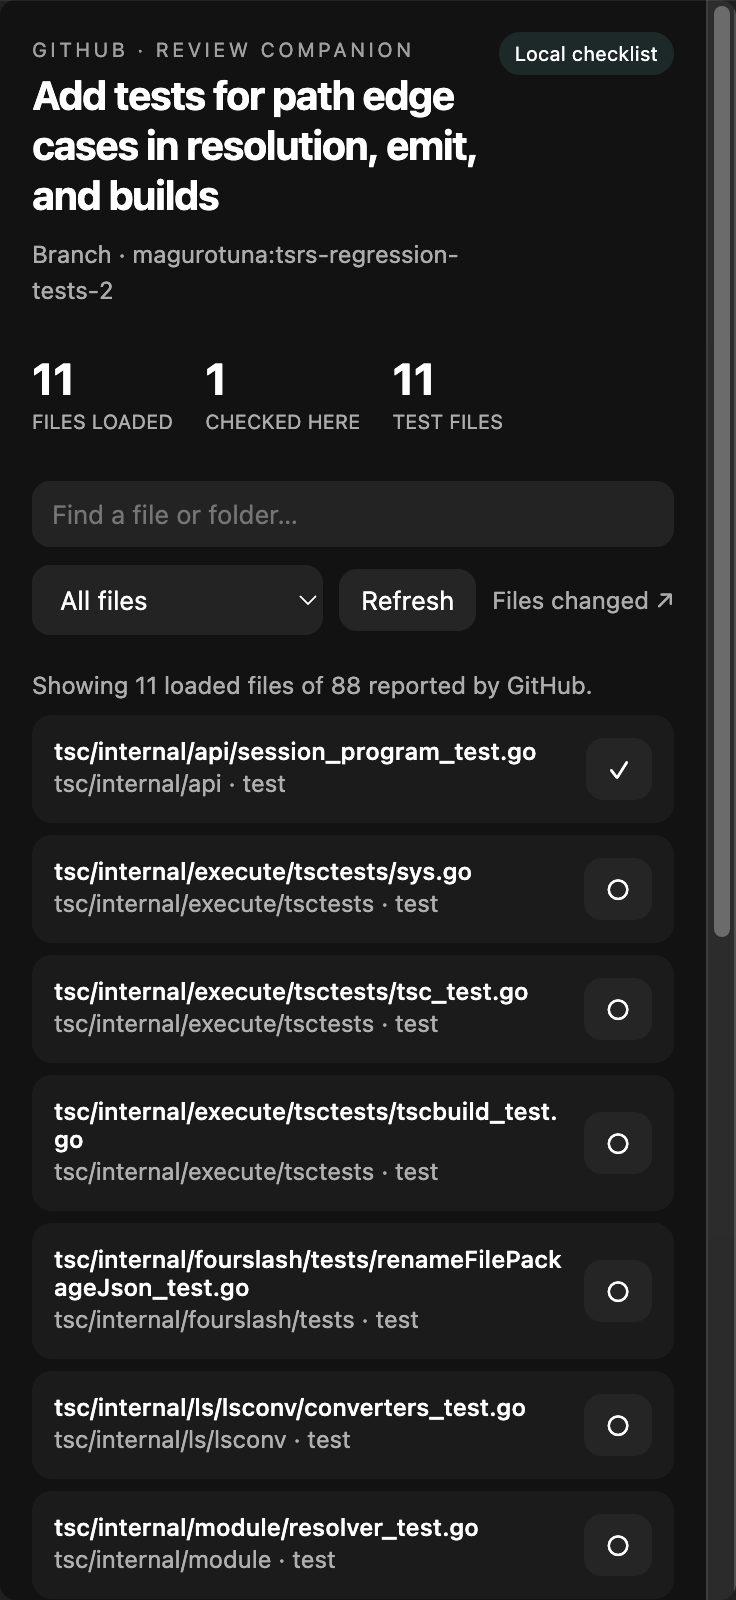
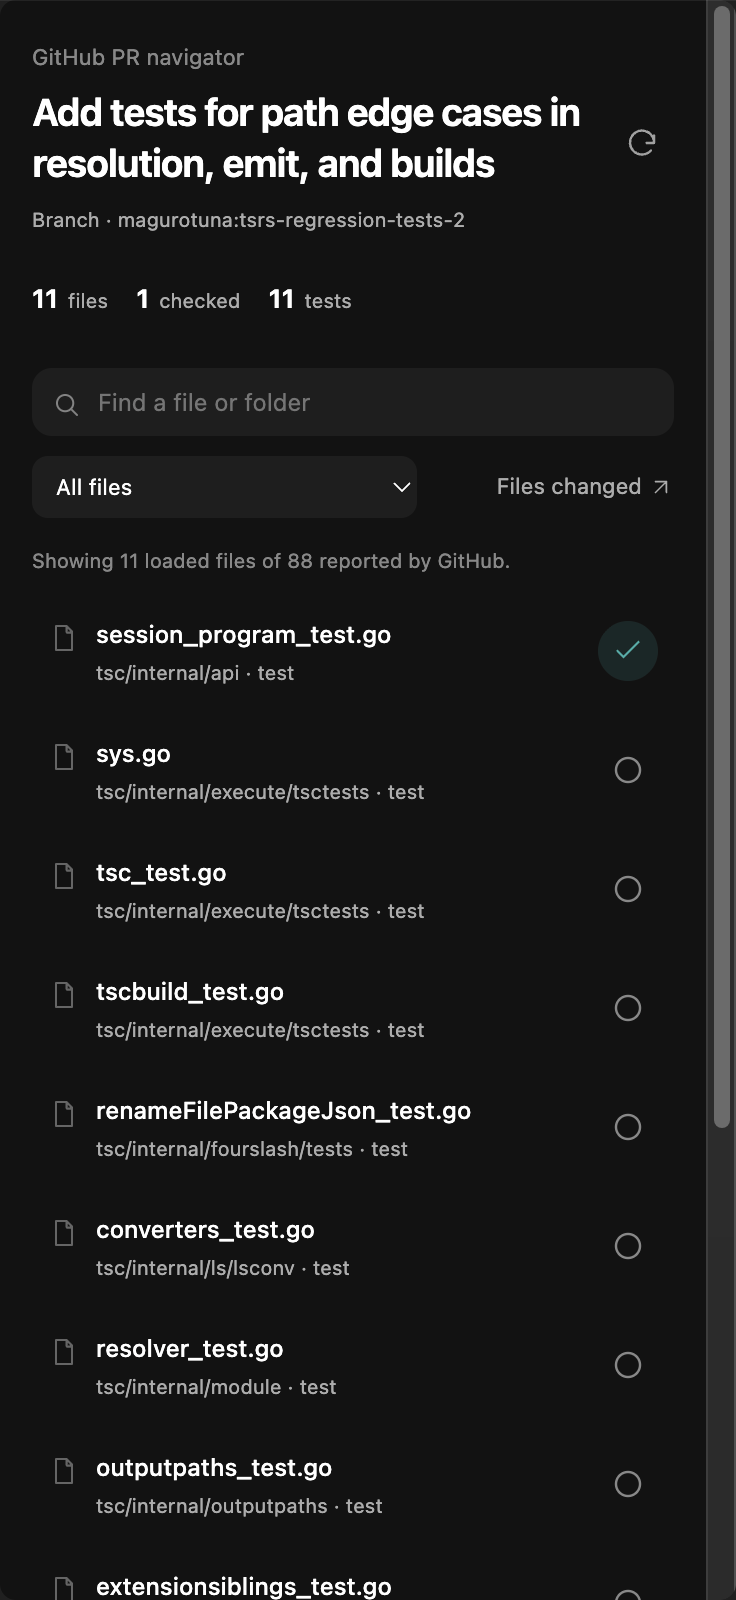
Refine PR and page explorer panels and publish refreshed galleries

diff --git a/docs/marketplace-hooks/src/navigator-shared.css b/docs/marketplace-hooks/src/navigator-shared.css
@@ -1,0 +1,1 @@
+.panel-navigator{padding:20px 16px;max-width:760px;font-family:-apple-system,BlinkMacSystemFont,"Segoe UI",sans-serif}.panel-navigator header{margin-bottom:18px;align-items:center}.panel-navigator .eyebrow{font-size:11px;letter-spacing:0;text-transform:none;opacity:.5}.panel-navigator h1{font-size:19px;font-weight:650;line-height:1.35;letter-spacing:-.4px;margin:8px 0}.panel-navigator .muted{font-size:11px}.panel-navigator #branch{overflow-wrap:anywhere;font-size:10px}.panel-navigator svg{width:18px;height:18px;fill:none;stroke:currentColor;stroke-width:1.6;stroke-linecap:round;stroke-linejoin:round;flex-shrink:0}.panel-navigator .icon-button{width:32px;height:32px;flex-shrink:0;padding:7px;display:grid;place-items:center;background:transparent;border-radius:50%;opacity:.6}.panel-navigator .icon-button:hover{background:color-mix(in srgb,CanvasText 7%,Canvas);opacity:1}.panel-navigator .stats{gap:14px;margin:14px 0 18px}.panel-navigator .stats>div{display:flex;gap:5px;align-items:baseline}.panel-navigator .stats strong{font-size:13px;font-weight:650}.panel-navigator .stats small{font-size:10px;text-transform:none}.panel-navigator .toolbar{padding:8px 0 12px;background:Canvas;z-index:1}.search-field{position:relative}.search-field>svg{position:absolute;left:10px;top:11px;width:15px;height:15px;opacity:.45;pointer-events:none}.panel-navigator input[type=search]{padding:10px 12px 10px 33px;font-size:12px;background:color-mix(in srgb,CanvasText 5%,Canvas);border-radius:10px}.panel-navigator select{font-size:11px;padding:8px;background:color-mix(in srgb,CanvasText 5%,Canvas);border-radius:8px}.filter-row{display:flex;align-items:center;gap:10px;margin-top:10px}.filter-row select{width:auto;max-width:60%;flex:1}.filter-row a{margin-left:auto;font-size:10px;white-space:nowrap;display:flex;gap:3px;align-items:center}.filter-row a svg{width:13px;height:13px}.panel-navigator .list{gap:2px}.panel-navigator .item{background:transparent;padding:11px 8px;border-radius:9px;display:flex;align-items:center;gap:8px}.panel-navigator .item:hover{background:color-mix(in srgb,CanvasText 4%,Canvas);text-decoration:none}.panel-navigator .item strong{font-size:12px;font-weight:500;line-height:1.5}.panel-navigator .item small{font-size:10px;margin-top:3px;line-height:1.45}.panel-navigator .file-icon{opacity:.35;width:16px;height:16px;align-self:flex-start;margin-top:3px}.panel-navigator .check-button{background:transparent;padding:6px;width:30px;height:30px;flex-shrink:0;border-radius:50%;opacity:.5;display:grid;place-items:center}.panel-navigator .check-button[aria-pressed=true]{background:color-mix(in srgb,var(--kudium-primary) 14%,Canvas);color:var(--kudium-primary);opacity:1}.panel-navigator .check-button:hover{opacity:1}.panel-navigator .segments{display:flex;gap:3px;padding:3px;border-radius:9px;background:color-mix(in srgb,CanvasText 5%,Canvas);margin-top:10px}.panel-navigator .segments button{flex:1;background:transparent;font-size:11px;padding:7px 8px;border-radius:7px;opacity:.6;white-space:nowrap}.panel-navigator .segments button[aria-pressed=true]{background:color-mix(in srgb,CanvasText 10%,Canvas);color:inherit;opacity:1;filter:none;font-weight:550}.panel-navigator #link-filter{width:100%;margin-top:8px}.panel-navigator #notice,.panel-navigator #summary{font-size:10px;margin:2px 0 9px;opacity:.5}.panel-navigator .source-arrow{opacity:.35;width:14px;height:14px;margin-left:auto}.panel-navigator details{margin-top:12px}.panel-navigator summary{font-size:11px;cursor:pointer;opacity:.65;padding:8px 0}.panel-navigator details p{font-size:11px;line-height:1.65}.panel-navigator .local-note{font-size:10px;opacity:.45;margin:18px 0 0}.panel-navigator #description{white-space:pre-wrap}.panel-navigator #threads .item{display:block;font-size:11px;line-height:1.6}@media(max-width:340px){.panel-navigator{padding:16px 12px}.panel-navigator h1{font-size:18px}.panel-navigator .stats{gap:10px}}

diff --git a/docs/marketplace-hooks/src/page-explorer.panel.js b/docs/marketplace-hooks/src/page-explorer.panel.js
@@ -1,7 +1,7 @@
 let explorerData, mode='outline';const el=id=>document.getElementById(id);
 function render(){if(!explorerData)return;const query=el('search').value.toLowerCase(),filter=el('link-filter').value;el('results').replaceChildren();
   const entries=mode==='outline'?explorerData.headings.filter(item=>item.text.toLowerCase().includes(query)):explorerData.links.filter(item=>(item.label+' '+item.domain+' '+item.url).toLowerCase().includes(query)&&(filter!=='external'||item.external)&&(filter!=='internal'||!item.external));
-  for(const item of entries){const row=document.createElement(mode==='outline'?'button':'a');row.className='item';const title=document.createElement('strong');title.textContent=mode==='outline'?item.text:item.label;row.append(title);if(mode==='outline'){row.style.paddingLeft=(11+Math.min(3,item.level-1)*12)+'px';row.onclick=async()=>{try{await kudiumHookPanel.invoke('explorer-jump',{index:item.index});}catch(error){el('error').textContent=error.message;}};}else{row.href=item.url;const detail=document.createElement('small');detail.textContent=item.domain+(item.external?' · external source':' · this website');row.append(detail);}el('results').append(row);}
+  for(const item of entries){const row=document.createElement(mode==='outline'?'button':'a');row.className='item';const title=document.createElement('strong');title.textContent=mode==='outline'?item.text:item.label;const content=document.createElement('div');content.className='grow';content.append(title);row.append(content);if(mode==='outline'){row.style.paddingLeft=(11+Math.min(3,item.level-1)*12)+'px';row.onclick=async()=>{try{await kudiumHookPanel.invoke('explorer-jump',{index:item.index});}catch(error){el('error').textContent=error.message;}};}else{row.href=item.url;const detail=document.createElement('small');detail.textContent=item.domain+(item.external?' · external source':' · this website');content.append(detail);const arrow=document.createElementNS('http://www.w3.org/2000/svg','svg');arrow.setAttribute('viewBox','0 0 24 24');arrow.classList.add('source-arrow');arrow.setAttribute('aria-hidden','true');arrow.innerHTML='<path d="M7 17 17 7M7 7h10v10"/>';row.append(arrow);}el('results').append(row);}
   el('summary').textContent=entries.length+' '+(mode==='outline'?'sections':'links')+' shown';if(!entries.length){const empty=document.createElement('p');empty.className='empty';empty.textContent='No '+(mode==='outline'?'headings':'links')+' match. Try another search or Refresh.';el('results').append(empty);}}
 for(const [id,next] of [['outline-tab','outline'],['links-tab','links']])el(id).onclick=()=>{mode=next;el('link-filter').hidden=mode==='outline';for(const [button,value] of [['outline-tab','outline'],['links-tab','links']]){el(button).classList.toggle('primary',mode===value);el(button).setAttribute('aria-pressed',String(mode===value));}render();};
 el('search').oninput=render;el('link-filter').onchange=render;el('refresh').onclick=async()=>{el('refresh').disabled=true;try{await kudiumHookPanel.invoke('explorer-refresh');el('error').textContent='';}catch(error){el('error').textContent=error.message;}finally{el('refresh').disabled=false;}};

diff --git a/docs/marketplace-hooks/src/pr-navigator.panel.html b/docs/marketplace-hooks/src/pr-navigator.panel.html
@@ -1,6 +1,6 @@
-<main><header><div><span class="eyebrow">GitHub · review companion</span><h1 id="title">PR review navigator</h1><p id="branch" class="muted"></p></div><span class="pill">Local checklist</span></header>
-<div class="stats"><div><strong id="loaded">0</strong><small>FILES LOADED</small></div><div><strong id="checked">0</strong><small>CHECKED HERE</small></div><div><strong id="tests">0</strong><small>TEST FILES</small></div></div>
-<div class="toolbar"><input id="search" type="search" placeholder="Find a file or folder…" aria-label="Find a file or folder"><div class="row" style="margin-top:9px"><select id="filter" aria-label="Filter files" class="grow"><option value="all">All files</option><option value="todo">Not checked here</option><option value="test">Tests and specs</option></select><button id="refresh">Refresh</button><a id="files-link" class="muted">Files changed ↗</a></div></div>
+<main class="panel-navigator"><header><div><span class="eyebrow">GitHub PR navigator</span><h1 id="title">PR review navigator</h1><p id="branch" class="muted"></p></div><button id="refresh" class="icon-button" aria-label="Refresh files" title="Refresh files"><svg viewBox="0 0 24 24"><path d="M20 7v5h-5M20 12a8 8 0 1 0-2 5"/></svg></button></header>
+<div class="stats"><div><strong id="loaded">0</strong><small>files</small></div><div><strong id="checked">0</strong><small>checked</small></div><div><strong id="tests">0</strong><small>tests</small></div></div>
+<div class="toolbar"><div class="search-field"><svg viewBox="0 0 24 24"><circle cx="10.5" cy="10.5" r="6.5"/><path d="m16 16 4 4"/></svg><input id="search" type="search" placeholder="Find a file or folder" aria-label="Find a file or folder"></div><div class="filter-row"><select id="filter" aria-label="Filter files"><option value="all">All files</option><option value="todo">Unchecked</option><option value="test">Tests &amp; specs</option></select><a id="files-link" class="muted">Files changed<svg viewBox="0 0 24 24"><path d="M7 17 17 7M7 7h10v10"/></svg></a></div></div>
 <p id="notice" class="muted"></p><div id="files" class="list"></div><p id="error" class="error" role="alert"></p>
-<details class="card"><summary>PR description</summary><p id="description" style="white-space:pre-wrap;font-size:12px"></p></details><details class="card"><summary id="threads-title">Loaded review threads</summary><div id="threads" class="list" style="margin-top:12px"></div></details>
-<p class="muted">Checked marks are your local session checklist—not GitHub’s Viewed state or a submitted review. Refresh after opening Files changed or loading more content.</p></main>
+<details><summary>PR description</summary><p id="description"></p></details><details><summary id="threads-title">Review threads</summary><div id="threads" class="list"></div></details>
+<details><summary>About this checklist</summary><p class="muted">Marks stay in this website session. They do not change GitHub’s Viewed state or submit a review. Recheck after new commits. Open Files changed and refresh to load more files.</p></details></main>

diff --git a/docs/marketplace-hooks/src/page-explorer.panel.html b/docs/marketplace-hooks/src/page-explorer.panel.html
@@ -1,2 +1,4 @@
-<main><header><div><span class="eyebrow">Page explorer</span><h1 id="title">Outline & links</h1></div><button id="refresh">Refresh</button></header><div class="stats"><div><strong id="sections">0</strong><small>SECTIONS</small></div><div><strong id="link-count">0</strong><small>UNIQUE LINKS</small></div><div><strong id="domains">0</strong><small>EXTERNAL DOMAINS</small></div></div>
-<div class="toolbar"><input type="search" id="search" placeholder="Find a section, source, or domain…" aria-label="Search sections and links"><div class="row" style="margin-top:10px"><button id="outline-tab" class="primary" aria-pressed="true">Outline</button><button id="links-tab" aria-pressed="false">Links & sources</button><select id="link-filter" aria-label="Link filter" class="grow" hidden><option value="all">All links</option><option value="external">External sources</option><option value="internal">This website</option></select></div></div><p id="summary" class="muted"></p><div id="results" class="list"></div><p id="error" class="error" role="alert"></p><p class="muted">A local map of visible headings and links. No AI guesses, network fetches, or changes to the page. Refresh after loading another section.</p></main>
+<main class="panel-navigator"><header><div><span class="eyebrow">Page explorer</span><h1 id="title">Outline &amp; links</h1></div><button id="refresh" class="icon-button" aria-label="Refresh page map" title="Refresh page map"><svg viewBox="0 0 24 24"><path d="M20 7v5h-5M20 12a8 8 0 1 0-2 5"/></svg></button></header>
+<div class="stats"><div><strong id="sections">0</strong><small>sections</small></div><div><strong id="link-count">0</strong><small>links</small></div><div><strong id="domains">0</strong><small>sources</small></div></div>
+<div class="toolbar"><div class="search-field"><svg viewBox="0 0 24 24"><circle cx="10.5" cy="10.5" r="6.5"/><path d="m16 16 4 4"/></svg><input type="search" id="search" placeholder="Find a section or source" aria-label="Search sections and links"></div><div class="segments"><button id="outline-tab" aria-pressed="true">Outline</button><button id="links-tab" aria-pressed="false">Links &amp; sources</button></div><select id="link-filter" aria-label="Link filter" hidden><option value="all">All links</option><option value="external">External sources</option><option value="internal">This website</option></select></div>
+<p id="summary" class="muted"></p><div id="results" class="list"></div><p id="error" class="error" role="alert"></p><details><summary>About this page map</summary><p class="muted">Shows visible headings and links on this page. Refresh after loading more content. Nothing is uploaded and the page stays unchanged.</p></details></main>

diff --git a/docs/marketplace-hooks/src/pr-navigator.panel.js b/docs/marketplace-hooks/src/pr-navigator.panel.js
@@ -6,8 +6,8 @@ function renderFiles(){if(!prData)return;const query=el('search').value.toLowerC
   el('files').replaceChildren(...list.map(file=>{
     const row=document.createElement('div');row.className='item row';
     const jump=document.createElement('button');jump.className='grow';jump.style.cssText='background:none;padding:0;text-align:left';
-    const name=document.createElement('strong');name.textContent=file.path;const detail=document.createElement('small');detail.textContent=file.folder+(file.test?' · test':'')+(file.additions||file.deletions?' · +'+file.additions+' −'+file.deletions:'');jump.append(name,detail);jump.onclick=()=>action('pr-jump',{index:file.index});
-    const check=document.createElement('button');check.textContent=file.reviewed?'✓':'○';check.setAttribute('aria-label',(file.reviewed?'Uncheck ':'Mark checked ')+file.path);check.setAttribute('aria-pressed',String(file.reviewed));check.onclick=()=>action('pr-check',{index:file.index});row.append(jump,check);return row;
+    const name=document.createElement('strong');name.textContent=file.path.split('/').pop();jump.title=file.path;const detail=document.createElement('small');detail.textContent=file.folder+(file.test?' · test':'')+(file.additions||file.deletions?' · +'+file.additions+' −'+file.deletions:'');jump.append(name,detail);jump.onclick=()=>action('pr-jump',{index:file.index});
+    const check=document.createElement('button');check.className='check-button';check.innerHTML='<svg viewBox="0 0 24 24">'+(file.reviewed?'<path d="m5 12 4 4 10-10"/>':'<circle cx="12" cy="12" r="8"/>')+'</svg>'; check.setAttribute('aria-label',(file.reviewed?'Uncheck ':'Mark checked ')+file.path);check.setAttribute('aria-pressed',String(file.reviewed));check.onclick=()=>action('pr-check',{index:file.index});const icon=document.createElementNS('http://www.w3.org/2000/svg','svg');icon.setAttribute('viewBox','0 0 24 24');icon.classList.add('file-icon');icon.setAttribute('aria-hidden','true');icon.innerHTML='<path d="M14 3H6v18h12V7zM14 3v5h4"/>';row.append(icon,jump,check);return row;
   }));if(!list.length){const empty=document.createElement('p');empty.className='empty';empty.textContent=prData.files.length?'No files match this filter.':'Open Files changed, then Refresh to build your review map.';el('files').append(empty);}
 }
 el('search').oninput=renderFiles;el('filter').onchange=renderFiles;el('refresh').onclick=()=>action('pr-refresh');

diff --git a/scripts/hooks/prepare-panel-captures.py b/scripts/hooks/prepare-panel-captures.py
@@ -14,24 +14,26 @@ for name, state in [('listen-article', 'playing'), ('pr-navigator', 'checked'), 
 # Keep a compact, reproducible listening gallery alongside the PNG masters.
 import hashlib
 import json
-package = root.parent / 'listen-article.json'
 manifest = json.loads((root / 'manifest.json').read_text())
-assets = []
-for state in ['overview', 'settings', 'transcript']:
-    source = root / f'listen-article-{state}.png'
-    picture = Image.open(source).convert('RGB')
-    picture.thumbnail((1600, 1600), Image.Resampling.LANCZOS)
-    output = source.with_suffix('.webp')
-    quality = 85
-    while True:
-        picture.save(output, 'WEBP', quality=quality, method=6)
-        if output.stat().st_size <= 250000 or quality <= 40:
-            break
-        quality -= 5
-    assert output.stat().st_size <= 250000, output
-    assets.append(dict(file=output.name, width=picture.width, height=picture.height,
-                       bytes=output.stat().st_size,
-                       sha256=hashlib.sha256(output.read_bytes()).hexdigest()))
-manifest['listeningGallery'] = dict(packageSHA256=hashlib.sha256(package.read_bytes()).hexdigest(),
-                                  assets=assets)
+for name, states in [('listen-article', ['overview', 'settings', 'transcript']),
+                     ('pr-navigator', ['overview', 'checked']),
+                     ('page-explorer', ['overview', 'outline', 'sources'])]:
+    assets = []
+    for state in states:
+        source = root / f'{name}-{state}.png'
+        picture = Image.open(source).convert('RGB')
+        picture.thumbnail((1600, 1600), Image.Resampling.LANCZOS)
+        output = source.with_suffix('.webp')
+        quality = 85
+        while True:
+            picture.save(output, 'WEBP', quality=quality, method=6)
+            if output.stat().st_size <= 250000 or quality <= 40:
+                break
+            quality -= 5
+        assert output.stat().st_size <= 250000, output
+        assets.append(dict(file=output.name, width=picture.width, height=picture.height,
+                           bytes=output.stat().st_size,
+                           sha256=hashlib.sha256(output.read_bytes()).hexdigest()))
+    key = 'listeningGallery' if name == 'listen-article' else name + 'Gallery'
+    manifest[key] = dict(packageSHA256=hashlib.sha256((root.parent / (name + '.json')).read_bytes()).hexdigest(), assets=assets)
 (root / 'manifest.json').write_text(json.dumps(manifest, indent=2) + '\n')

diff --git a/docs/marketplace-hooks/PANEL-HOOKS.md b/docs/marketplace-hooks/PANEL-HOOKS.md
@@ -68,3 +68,12 @@ a slim progress control, and expandable voice settings and transcript. The publi
 The marketplace gallery shows actual playback, expanded voice settings and the
 follow-along transcript. WebP masters and image hashes are in the capture manifest. Native QA checks both
 collapsed and expanded layouts at 280/368/640px and captures the transcript state.
+
+## Navigator redesigns (published PR version 4, explorer version 3)
+
+Both panels share compact counts, system typography, SVG icons, search controls
+and quiet list rows. PR filenames and folders are separated, with full paths in
+tooltips. The explorer uses a segmented outline/source switcher. Additional context
+is expandable. Native QA verifies file search, unchecked filtering and external
+source filtering, plus source-list layouts at 280/368/640px. Refreshed gallery WebP
+files and hashes are recorded together in the capture manifest.
